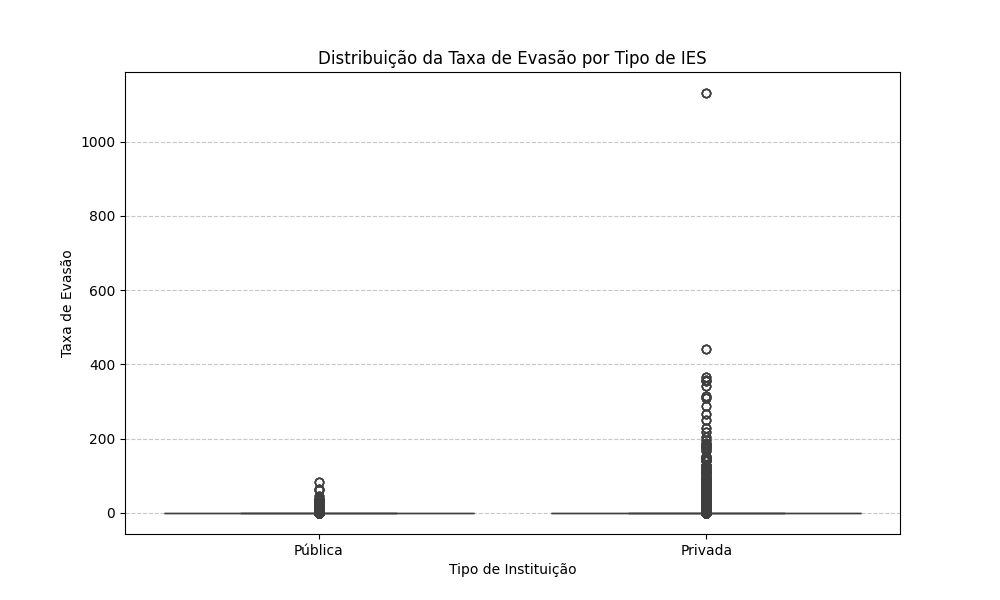
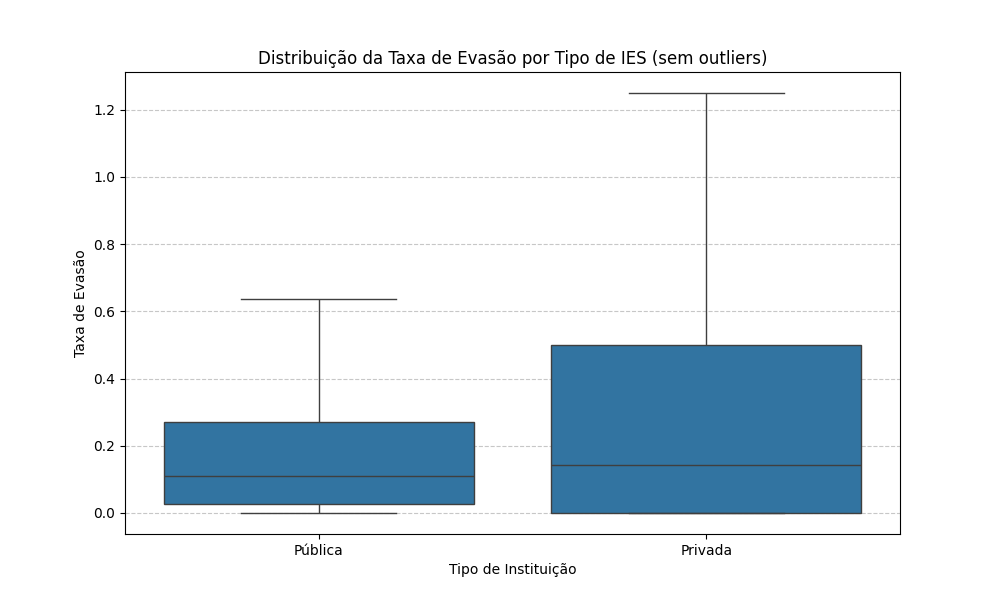
Improves course input validation and data visualization
Enhances course name input by providing a listing option,
ensuring uppercase matching, and validating user entries for
better usability and prediction accuracy.

Refactors dropout rate histogram to filter unrealistic values,
separates plots by institution type, and uses log scale for
improved interpretability.

Updates related report images to reflect visualization changes.

diff --git a/src/test_predictor.py b/src/test_predictor.py
@@ -1,0 +1,116 @@
+import joblib
+import pandas as pd
+import os
+
+def load_models():
+    """Carrega todos os modelos necessários e os retorna em um dicionário."""
+    model_paths = {
+        'RandomForest_publica': os.path.join('models', 'RandomForest_publica.joblib'),
+        'RegressaoLogistica_publica': os.path.join('models', 'RegressaoLogistica_publica.joblib'),
+        'RandomForest_privada': os.path.join('models', 'RandomForest_privada.joblib'),
+        'RegressaoLogistica_privada': os.path.join('models', 'RegressaoLogistica_privada.joblib')
+    }
+    
+    loaded_models = {}
+    for name, path in model_paths.items():
+        if not os.path.exists(path):
+            print(f"ERRO: Modelo '{path}' não encontrado. Execute 'src/main.py' primeiro.")
+            return None
+        loaded_models[name] = joblib.load(path)
+        
+    print("Todos os modelos foram carregados com sucesso.")
+    return loaded_models
+
+def get_all_course_names():
+    """Carrega e retorna uma lista de todos os nomes de cursos únicos."""
+    cursos_path = os.path.join('data', 'transformed_data', 'cursos_tratados.csv')
+    try:
+        df_cursos = pd.read_csv(cursos_path, sep=';', encoding='latin1')
+        return df_cursos['NO_CINE_ROTULO'].dropna().str.upper().unique()
+    except FileNotFoundError:
+        print(f"ERRO: Arquivo de cursos '{cursos_path}' não encontrado.")
+        return []
+
+def run_prediction(pipeline, test_data):
+    """Executa a predição e retorna o resultado formatado."""
+    if pipeline is None:
+        return "Modelo não carregado", 0.0
+
+    prediction = pipeline.predict(test_data)
+    probabilities = pipeline.predict_proba(test_data)
+    
+    resultado = "ALTA EVASÃO" if prediction[0] == 1 else "BAIXA EVASÃO"
+    prob_alta = probabilities[0][1]
+    
+    return resultado, prob_alta
+
+def main():
+    """
+    Script para testar múltiplos modelos, imprimir resultados e salvá-los em um CSV.
+    """
+    print("--- INICIANDO TESTE EM LOTE DE TODOS OS CURSOS ---")
+
+    NUM_CURSOS_A_TESTAR = 15 
+    CENARIOS_ALUNOS = [50, 150, 300] 
+
+    models = load_models()
+    if models is None: return
+
+    course_names = get_all_course_names()
+    if not course_names.any(): return
+        
+    if NUM_CURSOS_A_TESTAR:
+        print(f"\nAVISO: O teste será limitado a uma amostra de {NUM_CURSOS_A_TESTAR} cursos.")
+        course_names = pd.Series(course_names).sample(NUM_CURSOS_A_TESTAR).values
+
+    all_results = []
+    print("\n" + "="*100)
+    print(f"{'CURSO':<35} | {'ALUNOS':<8} | {'TIPO IES':<12} | {'MODELO':<20} | {'PREVISÃO':<15}")
+    print("-" * 100)
+
+    for curso in course_names:
+        for n_alunos in CENARIOS_ALUNOS:
+            for tipo_ies in ['publica', 'privada']:
+                for model_name in ['RandomForest', 'RegressaoLogistica']:
+                    
+                    full_model_name = f"{model_name}_{tipo_ies}"
+                    pipeline = models[full_model_name]
+                    
+                    tp_cat_admin = 1 if tipo_ies == 'publica' else 4
+                    
+                    # --- CORREÇÃO APLICADA AQUI ---
+                    # Garante que TODAS as colunas esperadas pelo modelo estejam presentes.
+                    test_data = pd.DataFrame({
+                        # Features principais do teste
+                        'NO_CINE_ROTULO': [curso],
+                        'QT_MAT': [n_alunos],
+                        'TP_CATEGORIA_ADMINISTRATIVA': [tp_cat_admin],
+                        
+                        # Features placeholder necessárias pelo pré-processador
+                        'QT_CONC': [0],
+                        'QT_SIT_DESVINCULADO': [0],
+                        'NO_IES': ['UNIVERSIDADE TESTE'],
+                        'SG_IES': ['UT'],
+                        'NO_REGIAO_IES': ['Sudeste'],
+                        'SG_UF_IES': ['SP']
+                    })
+
+                    resultado, prob_alta = run_prediction(pipeline, test_data)
+                    print(f"{curso.title():<35} | {n_alunos:<8} | {tipo_ies.title():<12} | {model_name:<20} | {resultado} ({prob_alta:.1%})")
+                    
+                    all_results.append({
+                        'curso': curso.title(), 'alunos': n_alunos,
+                        'tipo_ies': tipo_ies.title(), 'modelo': model_name,
+                        'previsao': resultado, 'prob_alta_evasao': prob_alta
+                    })
+        print("-" * 100)
+
+    results_df = pd.DataFrame(all_results)
+    output_path = os.path.join('reports', 'test_results_comparison.csv')
+    results_df.to_csv(output_path, index=False)
+    print(f"\nResultados completos salvos em: {output_path}")
+
+    print("\n--- TESTE FINALIZADO ---")
+
+if __name__ == "__main__":
+    main()

diff --git a/src/predict.py b/src/predict.py
@@ -13,6 +13,17 @@ def load_model(model_path):
     model = joblib.load(model_path)
     return model
 
+def get_course_names():
+    """Carrega e retorna uma lista de nomes de cursos únicos, já em maiúsculas."""
+    cursos_path = os.path.join('data', 'transformed_data', 'cursos_tratados.csv')
+    try:
+        df_cursos = pd.read_csv(cursos_path, sep=';', encoding='latin1')
+        # CORREÇÃO: Converte todos os nomes de curso para maiúsculas ao carregar
+        return df_cursos['NO_CINE_ROTULO'].dropna().str.upper().unique()
+    except FileNotFoundError:
+        print(f"AVISO: Arquivo de cursos não encontrado em '{cursos_path}'. Não será possível listar os cursos.")
+        return []
+
 def get_user_input():
     """Coleta dados de um curso hipotético a partir da entrada do usuário."""
     print("\n--- Entre com os dados do curso para prever a evasão ---")
@@ -21,25 +32,47 @@ def get_user_input():
     while tipo_ies_input not in ['publica', 'privada']:
         print("Entrada inválida. Por favor, digite 'publica' ou 'privada'.")
         tipo_ies_input = input("O curso é de IES 'publica' ou 'privada'? ").lower()
-        
-    no_cine_rotulo = input("Nome do curso (ex: CIÊNCIA DA COMPUTAÇÃO): ").upper()
-    qt_mat = int(input("Quantidade de alunos matriculados: "))
     
-    # Define o código da categoria administrativa com base na escolha
-    # 1 = Federal (Pública), 4 = Privada com fins lucrativos
+    course_names = get_course_names()
+
+    while True:
+        prompt = "Nome do curso (digite 'LISTAR' para ver exemplos): "
+        # CORREÇÃO: Adiciona .strip() para remover espaços e mantém .upper()
+        no_cine_rotulo = input(prompt).strip().upper()
+        
+        if no_cine_rotulo == 'LISTAR':
+            if len(course_names) > 0:
+                print("\n--- Exemplo de Nomes de Cursos Válidos ---")
+                sample_size = min(20, len(course_names))
+                # Amostra da lista já em maiúsculas
+                sample_list = pd.Series(course_names).sample(sample_size)
+                # Mostra no formato "Title Case" para melhor leitura
+                for name in sample_list:
+                    print(f"- {name.title()}")
+                print("-" * 40)
+            else:
+                print("Não foi possível carregar a lista de cursos.")
+            continue
+            
+        if no_cine_rotulo not in course_names and len(course_names) > 0:
+            print("AVISO: O nome do curso digitado não foi encontrado nos dados originais. A predição pode ser imprecisa.")
+            
+        break
+
+    qt_mat_input = input("Quantidade de alunos matriculados: ")
+    while not qt_mat_input.isdigit():
+        print("Entrada inválida. Por favor, digite um número.")
+        qt_mat_input = input("Quantidade de alunos matriculados: ")
+    qt_mat = int(qt_mat_input)
+    
     tp_cat_admin = 1 if tipo_ies_input == 'publica' else 4
     
-    # Criando o DataFrame para a predição
     data = {
         'NO_CINE_ROTULO': [no_cine_rotulo],
-        'QT_MAT': [qt_mat],
-        'QT_CONC': [0], # Valor placeholder, não usado como feature
-        'QT_SIT_DESVINCULADO': [0], # Valor placeholder
-        'NO_IES': ['UNIVERSIDADE EXEMPLO'],
-        'SG_IES': ['UEX'],
+        'QT_MAT': [qt_mat], 'QT_CONC': [0], 'QT_SIT_DESVINCULADO': [0],
+        'NO_IES': ['UNIVERSIDADE EXEMPLO'], 'SG_IES': ['UEX'],
         'TP_CATEGORIA_ADMINISTRATIVA': [tp_cat_admin],
-        'NO_REGIAO_IES': ['Sudeste'],
-        'SG_UF_IES': ['SP']
+        'NO_REGIAO_IES': ['Sudeste'], 'SG_UF_IES': ['SP']
     }
     
     return pd.DataFrame(data), tipo_ies_input
@@ -51,7 +84,6 @@ def main():
     """
     dados_curso, tipo_ies = get_user_input()
     
-    # Escolhe o melhor modelo (RandomForest) para o tipo de IES
     model_name = f"RandomForest_{tipo_ies}.joblib"
     model_path = os.path.join('models', model_name)
     
@@ -60,11 +92,9 @@ def main():
     if pipeline:
         print("\n--- Realizando Predição ---")
         
-        # Realiza a predição e obtém as probabilidades
         prediction = pipeline.predict(dados_curso)
         probabilities = pipeline.predict_proba(dados_curso)
         
-        # Interpreta o resultado
         resultado = "ALTA EVASÃO" if prediction[0] == 1 else "BAIXA EVASÃO"
         prob_baixa = probabilities[0][0]
         prob_alta = probabilities[0][1]

diff --git a/src/analysis/analyze_test_results.py b/src/analysis/analyze_test_results.py
@@ -1,0 +1,84 @@
+import pandas as pd
+import os
+import seaborn as sns
+import matplotlib.pyplot as plt
+import textwrap
+
+def shorten_text(text, max_len=45):
+    """Resume um texto se ele for maior que o comprimento máximo."""
+    if len(text) > max_len:
+        # textwrap.shorten é mais inteligente que um simples fatiamento
+        return textwrap.shorten(text, width=max_len, placeholder="...")
+    return text
+
+def analyze_results():
+    """
+    Lê o arquivo de resultados dos testes e gera uma análise sobre
+    concordância dos modelos e principais pontos de atenção.
+    """
+    results_path = os.path.join('reports', 'test_results_comparison.csv')
+    
+    try:
+        df = pd.read_csv(results_path)
+    except FileNotFoundError:
+        print(f"ERRO: Arquivo de resultados '{results_path}' não encontrado.")
+        print("Por favor, execute o script 'src/test_predictor.py' primeiro para gerar os dados.")
+        return
+
+    print("--- INICIANDO ANÁLISE DOS RESULTADOS DE PREVISÃO ---")
+
+    # 1. Análise de Concordância entre Modelos
+    df_pivot = df.pivot_table(index=['curso', 'alunos', 'tipo_ies'], 
+                              columns='modelo', 
+                              values='previsao', 
+                              aggfunc='first').reset_index()
+
+    df_pivot['concordancia'] = (df_pivot['RandomForest'] == df_pivot['RegressaoLogistica'])
+    
+    taxa_concordancia = df_pivot['concordancia'].mean()
+    print(f"\n[Análise 1: Concordância dos Modelos]")
+    print(f"Os modelos RandomForest e Regressão Logística concordaram em {taxa_concordancia:.2%} das previsões.")
+
+    discordancias = df_pivot[~df_pivot['concordancia']].copy()
+    if not discordancias.empty:
+        print("\n--- Principais Casos de Discordância (Top 10) ---")
+        for index, row in discordancias.head(10).iterrows():
+            curso_resumido = shorten_text(row['curso'])
+            print(f"\nCurso : {curso_resumido}")
+            print(f"  - Cenário: {row['alunos']} alunos em IES {row['tipo_ies']}")
+            print(f"  - RandomForest previu      : {row['RandomForest']}")
+            print(f"  - RegressaoLogistica previu: {row['RegressaoLogistica']}")
+    else:
+        print("Não houve discordâncias entre os modelos nos testes executados.")
+
+    # 2. Cursos com maior risco de evasão (segundo o RandomForest)
+    df_rf = df[(df['modelo'] == 'RandomForest') & (df['previsao'] == 'ALTA EVASÃO')]
+    
+    if not df_rf.empty:
+        cursos_criticos = df_rf.groupby('curso')['previsao'].count().sort_values(ascending=False)
+        print("\n\n[Análise 2: Cursos com Maior Risco de Evasão (RandomForest)]")
+        print("Cursos mais frequentemente previstos com 'ALTA EVASÃO' em diferentes cenários:")
+        print(cursos_criticos.head(10))
+        
+        # Prepara os dados para o gráfico
+        top_10_cursos = cursos_criticos.head(10)
+        # APLICA A FUNÇÃO DE RESUMO NOS NOMES DOS CURSOS PARA O GRÁFICO
+        shortened_labels = [shorten_text(label) for label in top_10_cursos.index]
+
+        plt.figure(figsize=(12, 8))
+        sns.barplot(x=top_10_cursos.values, y=shortened_labels, hue=shortened_labels, palette='viridis', dodge=False, legend=False)
+        plt.title('Top 10 Cursos com Maior Frequência de Previsão de "Alta Evasão" (RandomForest)')
+        plt.xlabel('Número de Cenários com Previsão de Alta Evasão')
+        plt.ylabel('Curso')
+        plt.tight_layout()
+        
+        plot_path = os.path.join('reports', 'cursos_maior_risco.png')
+        plt.savefig(plot_path)
+        print(f"\nGráfico salvo em: {plot_path}")
+        plt.close()
+
+    print("\n--- ANÁLISE FINALIZADA ---")
+
+
+if __name__ == "__main__":
+    analyze_results()

diff --git a/src/analysis/comparative_analysis.py b/src/analysis/comparative_analysis.py
@@ -12,40 +12,34 @@ def analyze_permanence(data):
     os.makedirs('reports', exist_ok=True)
 
     # 1. Preparação dos Dados
-    # Define os tipos de IES com base na coluna 'TP_CATEGORIA_ADMINISTRATIVA'
     tipos_ies = {
         'Pública': [1, 2, 3],
         'Privada': [4, 5]
     }
-    
-    # Cria uma nova coluna 'TIPO_IES' para facilitar a análise
     data['TIPO_IES'] = data['TP_CATEGORIA_ADMINISTRATIVA'].apply(
         lambda x: 'Pública' if x in tipos_ies['Pública'] else 'Privada'
     )
 
     # 2. Análise Estatística
     print("\n--- Análise Estatística da Taxa de Evasão ---")
-    # Calcula a taxa de evasão
     matriculados = data['QT_MAT'].replace(0, pd.NA)
     desvinculados = data['QT_SIT_DESVINCULADO']
     data['TAXA_EVASAO'] = (desvinculados / matriculados).dropna()
 
-    # Gera estatísticas descritivas por tipo de IES
     evasao_stats = data.groupby('TIPO_IES')['TAXA_EVASAO'].describe()
     print("\nEstatísticas da Taxa de Evasão por Tipo de IES:")
     print(evasao_stats)
     
-    # Salva as estatísticas em um arquivo CSV
     evasao_stats.to_csv('reports/estatisticas_evasao.csv')
     print("\nEstatísticas salvas em 'reports/estatisticas_evasao.csv'")
 
     # 3. Geração de Visualizações
     print("\n--- Gerando Visualizações ---")
     
-    # Gráfico 1: Boxplot da Taxa de Evasão
+    # Gráfico 1: Boxplot da Taxa de Evasão (sem alterações)
     plt.figure(figsize=(10, 6))
-    sns.boxplot(x='TIPO_IES', y='TAXA_EVASAO', data=data)
-    plt.title('Distribuição da Taxa de Evasão por Tipo de IES')
+    sns.boxplot(x='TIPO_IES', y='TAXA_EVASAO', data=data, showfliers=False) # Remove outliers para melhor visualização
+    plt.title('Distribuição da Taxa de Evasão por Tipo de IES (sem outliers)')
     plt.ylabel('Taxa de Evasão')
     plt.xlabel('Tipo de Instituição')
     plt.grid(axis='y', linestyle='--', alpha=0.7)
@@ -55,16 +49,24 @@ def analyze_permanence(data):
     print(f"Gráfico de boxplot salvo em: {boxplot_path}")
     plt.close()
 
-    # Gráfico 2: Histograma da Taxa de Evasão
-    plt.figure(figsize=(12, 7))
-    sns.histplot(data=data, x='TAXA_EVASAO', hue='TIPO_IES', kde=True, bins=50)
-    plt.title('Histograma da Taxa de Evasão para IES Públicas e Privadas')
-    plt.xlabel('Taxa de Evasão')
-    plt.ylabel('Frequência')
+    # Gráfico 2: Histograma da Taxa de Evasão (VERSÃO MELHORADA)
+    # Filtra dados para focar no intervalo de 0 a 1 (0% a 100% de evasão)
+    plot_data = data[(data['TAXA_EVASAO'] >= 0) & (data['TAXA_EVASAO'] <= 1)].copy()
+
+    # Cria subplots separados para cada tipo de IES
+    g = sns.FacetGrid(plot_data, col="TIPO_IES", height=6, aspect=1.2, col_wrap=2)
     
-    hist_path = 'reports/histograma_taxa_evasao.png'
-    plt.savefig(hist_path)
-    print(f"Gráfico de histograma salvo em: {hist_path}")
+    # Mapeia o histograma para cada subplot, com escala de log na frequência (eixo Y)
+    g.map(sns.histplot, "TAXA_EVASAO", kde=True, bins=50, log_scale=(False, True))
+    
+    g.fig.suptitle('Distribuição da Taxa de Evasão (Frequência em Escala Logarítmica)', y=1.03, fontsize=16)
+    g.set_axis_labels("Taxa de Evasão", "Frequência (em escala log)")
+    g.set_titles("IES do Tipo: {col_name}")
+    plt.tight_layout()
+
+    hist_path_melhorado = 'reports/histograma_evasao_separado.png'
+    plt.savefig(hist_path_melhorado)
+    print(f"Gráfico de histograma melhorado salvo em: {hist_path_melhorado}")
     plt.close()
 
     print("\n--- Análise Comparativa Concluída ---")
